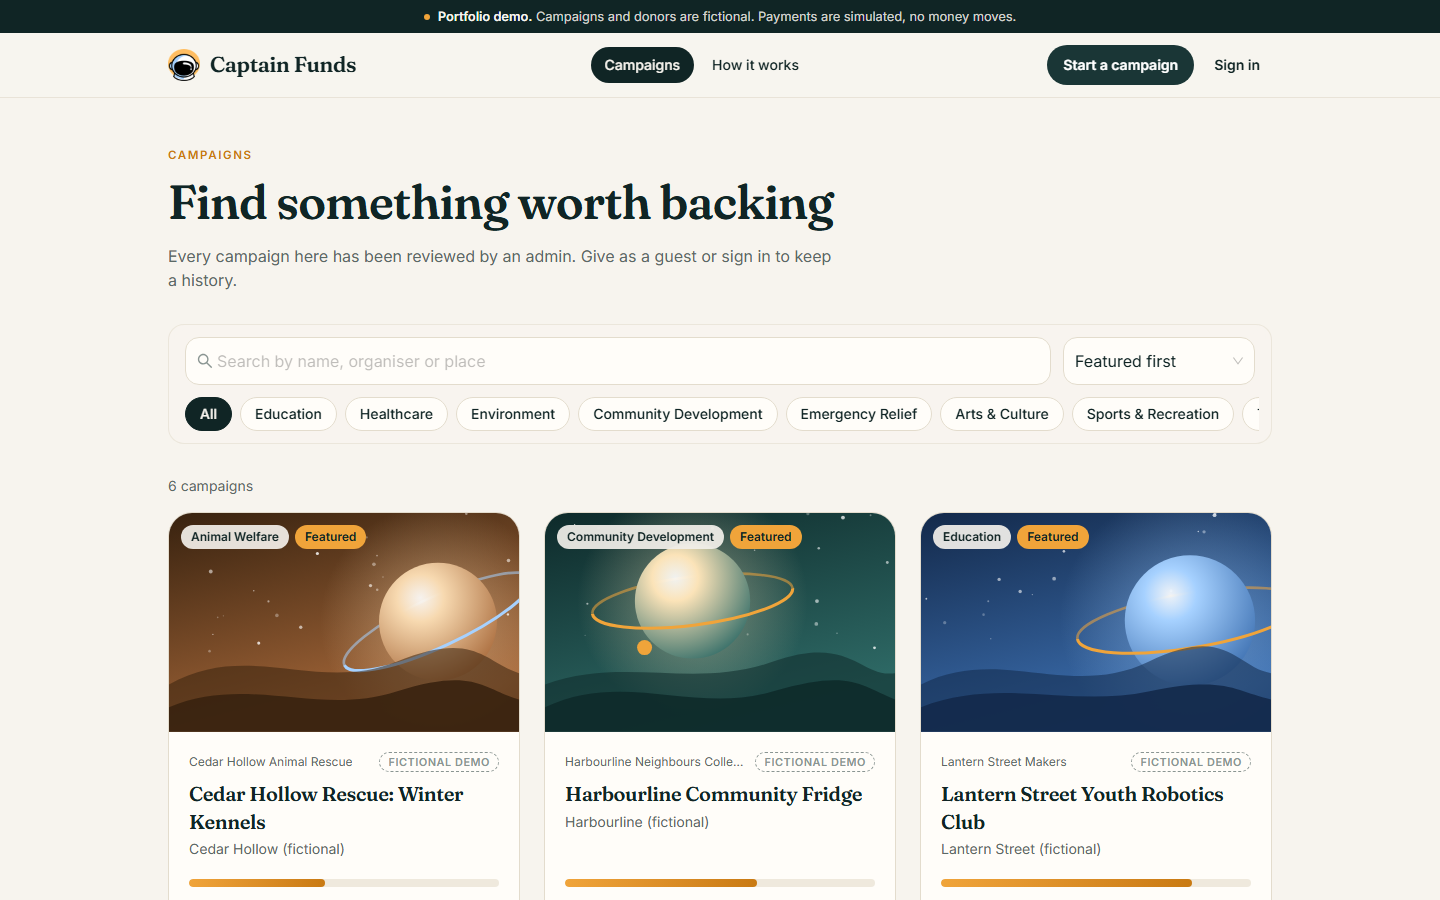
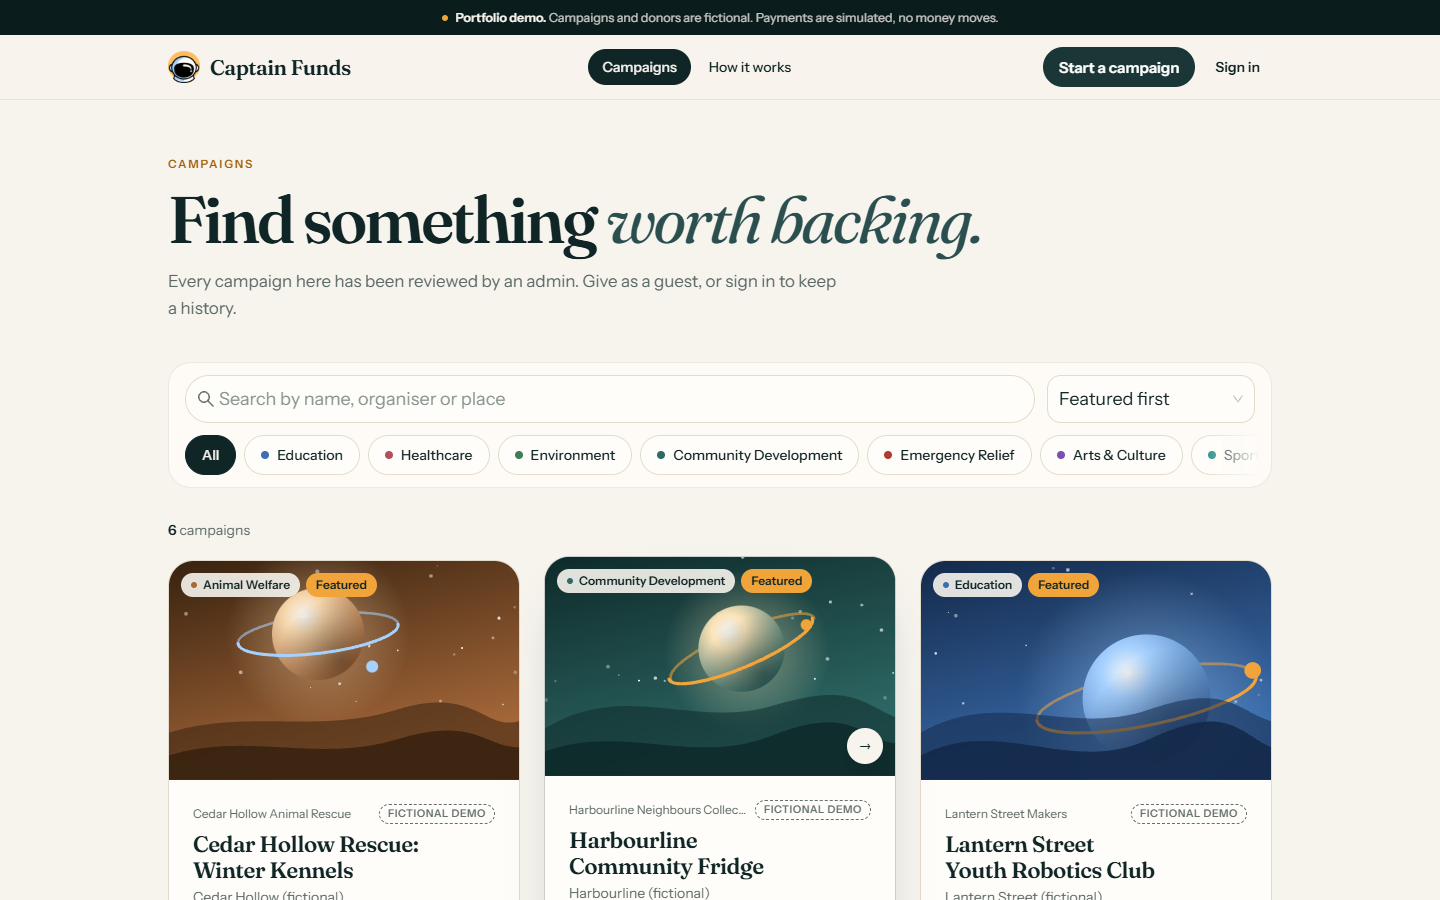
Refresh revamp screenshots and README gallery
Final 1440x900 shots of every main page (landing with a gift comet in
flight, browse with a card hovered, campaign, donation, gift recorded,
organiser and admin dashboards, sign-in, 404) plus two 390 px phone
shots, taken from a production build on fresh demo data.

diff --git a/README.md b/README.md
@@ -9,8 +9,12 @@ This is a portfolio project. **All campaigns, organisers and donors are fictiona
 | ![Landing page](revamp-shots/01-landing.png) | ![Donation modal](revamp-shots/03-campaign-donate.png) |
 | **Organiser dashboard** | **Admin analytics** |
 | ![Organiser dashboard](revamp-shots/04-organiser-dashboard.png) | ![Admin analytics](revamp-shots/05-admin-analytics.png) |
+| **Gift recorded** | **Phone (390 px)** |
+| ![Donation success](revamp-shots/08-donation-success.png) | ![Phone landing](revamp-shots/11-phone-landing.png) |
 
-More in [`revamp-shots/`](revamp-shots/) (browse page and a 390 px phone view).
+More in [`revamp-shots/`](revamp-shots/): browse, campaign page, sign-in, 404 and the phone campaign page.
+
+On the landing page every live campaign is a planet orbiting the ledger total (ring = how far it is funded, size = goal), and the latest gifts replay as comets falling from their campaign into the ledger. All motion switches off under `prefers-reduced-motion`.
 
 ## What you can do
 
